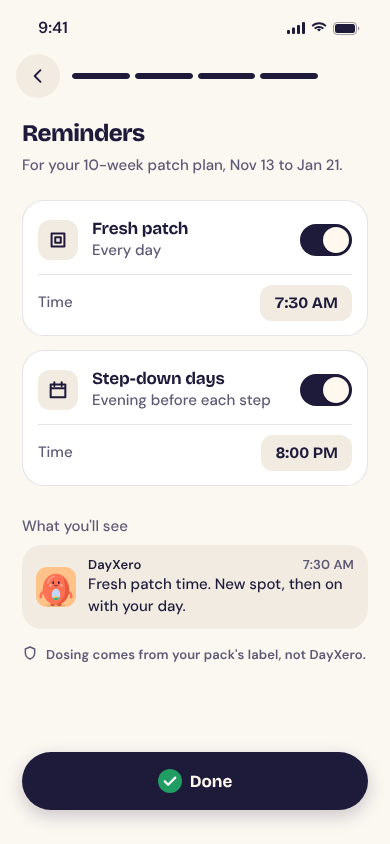
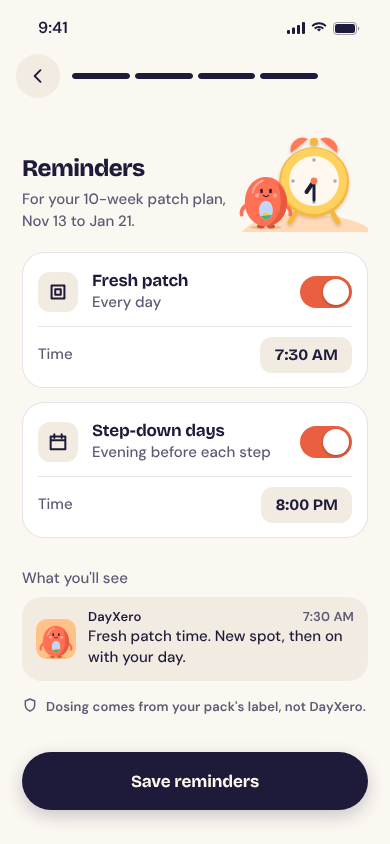
Cook: round 6 in progress
Claude-Session: https://claude.ai/code/session_01DZ7ApmrncqosUtJWfkxY6v

diff --git a/cook/site/screens/034-lesson-cards.html b/cook/site/screens/034-lesson-cards.html
@@ -38,12 +38,10 @@
 <div class="screen" data-ground="reading">
   <div class="nav">
     <button class="icon-btn" aria-label="Close" data-ic="close"></button>
-    <div class="grow"><div class="steps"><i class="now"></i><i></i><i></i><i></i></div></div>
-    <span class="t-foot muted" style="width:44px;text-align:right">1 of 4</span>
+    <div class="grow" style="padding-right:8px"><div class="steps"><i class="now"></i><i></i><i></i><i></i></div></div>
   </div>
   <div class="scroll" style="padding-top:110px">
     <div class="pad">
-      <p class="t-foot label" data-a style="--i:0"><span data-ic="card"></span>The noisy passengers · 90-second read</p>
       <div class="stack-wrap">
         <div class="edge e2" data-fade style="--d:0ms"></div>
         <div class="edge e1" data-fade style="--d:80ms"></div>
@@ -52,9 +50,8 @@
             <div class="road" id="road"></div>
             <h1 class="t-title" data-a style="--i:3">You're the driver</h1>
             <div class="copy">
-              <p class="t-body" data-a style="--i:4">Think of your quit as a long drive. You're at the wheel, and you choose where the car goes.</p>
-              <p class="t-body" data-a style="--i:5">Cravings are the noisy passengers. They shout, they bargain, they promise that one won't hurt.</p>
-              <p class="pull" data-a style="--i:6">You don't have to argue or throw them out. Let them talk, and keep your eyes on the road.</p>
+              <p class="t-body" data-a style="--i:4">Your quit is a long drive, and you're at the wheel. Cravings are the noisy passengers: they shout, they bargain, they promise one won't hurt.</p>
+              <p class="pull" data-a style="--i:5">You don't have to argue or throw them out. Let them talk, and keep your eyes on the road.</p>
             </div>
           </article>
           <article class="face rear">
@@ -71,55 +68,61 @@
 </div>
 <script>
   document.querySelectorAll('[data-ic]').forEach(e => e.insertAdjacentHTML('afterbegin', DX.icon(e.dataset.ic, { size: 20 })));
-  /* Card art: the paper-cut road to the horizon with the lesson's little open-top car coming down it, Xero at the wheel and two
-     chattering passengers behind him. Same palette as the lesson intro; dark mode is the kit's pre-dawn sky. */
+  /* Card art, cropped close: the lesson's open-top car coming down the paper-cut road toward you. Xero is at the wheel, a blue
+     passenger beside him and a yellow and a coral one in the back, two of them chattering. Same palette as the lesson intro;
+     dark mode is the kit's pre-dawn sky. */
   const dark = DX.theme === 'dark';
   const C = dark
-    ? { sky: ['#0D1630', '#24335C', '#5B5578'], sun: '#F7B871', sunO: .85, halo: '#F2A65A', haloO: .3, hills: ['#1E2B4A', '#16233F', '#0F1A31', '#0A1326'], road: '#232E4D', dash: '#8E97B5', dashO: .55,
-        body: '#D8CDBB', shade: '#B3A895', stripe: '#E0876A', frame: '#B3A895', tyre: '#070B16', lamp: '#F7B871', glass: .16, puff: '#8E98B6', puff2: '#6F7997', bub: '#E6DCCB', marks: '#1E1A3A', shadow: .5 }
-    : { sky: ['#FF7E5A', '#FFB877', '#FFE6BF'], sun: '#FFD25E', sunO: 1, halo: '#FFF6C8', haloO: .6, hills: ['#FF9D6E', '#FF7A55', '#E85A3E', '#C2402A'], road: '#4A3352', dash: '#FFE6C8', dashO: .9,
-        body: '#FFF4E4', shade: '#F1D7BC', stripe: '#FF7A55', frame: '#2A2440', tyre: '#2A2440', lamp: '#FFD966', glass: .4, puff: '#B8BDD0', puff2: '#979EB8', bub: '#FFF8EE', marks: '#1E1A3A', shadow: .25 };
-  const sunY = dark ? 84 : 56;
-  const stars = dark ? [[30, 22], [92, 12], [150, 34], [196, 16], [272, 26], [120, 60]].map(([x, y], i) => `<circle cx="${x}" cy="${y}" r="${i % 2 ? 1 : 1.4}" fill="#fff" opacity="${i % 2 ? .5 : .85}"/>`).join('') : '';
-  const puff = (x, y, k, grin) => `<g transform="translate(${x} ${y}) scale(${k})">
-      <path d="M-13 32 V4 A13 13 0 0 1 -9 -5 A7 7 0 0 1 0 -12 A8 8 0 0 1 12 -6 A13 13 0 0 1 13 4 V32 Z" fill="${C.puff}"/>
-      <path d="M12 -6 A13 13 0 0 1 13 4 V32 H7 V4 C8 -1 9 -4 12 -6Z" fill="${C.puff2}"/>
-      <circle cx="-5" cy="1" r="2.2" fill="${C.marks}"/><circle cx="5" cy="1" r="2.2" fill="${C.marks}"/>
-      ${grin ? `<path d="M-5 7.5 h10 c0 4 -2.4 6 -5 6 s-5 -2 -5 -6z" fill="${C.marks}"/>` : `<ellipse cx="0" cy="9.5" rx="3.6" ry="4.4" fill="${C.marks}"/>`}</g>`;
+    ? { sky: ['#0D1630', '#24335C', '#5B5578'], hills: ['#1E2B4A', '#16233F', '#0F1A31', '#0A1326'], road: '#232E4D', dash: '#8E97B5', dashO: .55,
+        body: '#E6DCCB', shade: '#C2B6A2', stripe: '#E9886C', frame: '#C2B6A2', tyre: '#070B16', lamp: '#FFD27A', glass: .12, bub: '#EDE3D2', marks: '#1E1A3A', seat: '#2B3658', shadow: .5 }
+    : { sky: ['#FF7E5A', '#FFB877', '#FFE6BF'], hills: ['#FF9D6E', '#FF7A55', '#E85A3E', '#C2402A'], road: '#4A3352', dash: '#FFE6C8', dashO: .9,
+        body: '#FFF4E4', shade: '#F1D7BC', stripe: '#FF7A55', frame: '#2A2440', tyre: '#2A2440', lamp: '#FFD966', glass: .3, bub: '#FFF8EE', marks: '#1E1A3A', seat: '#2E2A4F', shadow: .25 };
+  const sun = dark
+    ? `<circle cx="58" cy="108" r="70" fill="url(#rhalo)"/><circle cx="58" cy="108" r="20" fill="#FFD27A"/>`
+    : `<circle cx="58" cy="54" r="54" fill="url(#rhalo)"/><circle cx="58" cy="54" r="24" fill="#FFD25E"/>`;
+  const stars = dark ? [[30, 22], [112, 14], [150, 40], [206, 18], [272, 30], [244, 66]].map(([x, y], i) => `<circle cx="${x}" cy="${y}" r="${i % 2 ? 1 : 1.4}" fill="#fff" opacity="${i % 2 ? .5 : .85}"/>`).join('') : '';
+  const pal = { coral: ['#FF9A82', '#F07A62'], yellow: ['#FFD25E', '#F2B640'], blue: ['#7C97F2', '#5C7AE0'] };
+  const pass = (x, y, c, k, tilt, mouth) => `<g transform="translate(${x} ${y}) rotate(${tilt}) scale(${k})">
+      <path d="M-15 40 V7 C-15 -3 -8 -9 0 -9 C8 -9 15 -3 15 7 V40Z" fill="${pal[c][0]}"/>
+      <path d="M8 -7 C12.5 -4 15 1 15 7 V40 H9.5 V7 C9.5 2 9.5 -3 8 -7Z" fill="${pal[c][1]}"/>
+      <path d="M-8 -1.5 l4 -1.4 M3.5 -2.9 l4 1.4" stroke="${C.marks}" stroke-width="1.6" stroke-linecap="round"/>
+      <circle cx="-4.5" cy="3.5" r="2" fill="${C.marks}"/><circle cx="4.5" cy="3.5" r="2" fill="${C.marks}"/>
+      ${mouth === 'grin' ? `<path d="M-4.6 9 h9.2 c0 3.6 -2.2 5.4 -4.6 5.4 s-4.6 -1.8 -4.6 -5.4z" fill="${C.marks}"/>` : mouth === 'o' ? `<ellipse cx="0" cy="11" rx="3" ry="3.8" fill="${C.marks}"/>` : `<path d="M-4 11 q4 -3 8 0" fill="none" stroke="${C.marks}" stroke-width="1.8" stroke-linecap="round"/>`}</g>`;
   const bubble = (x, y, w, tx, tip, marks, d) => `<g class="chat" style="--cd:${d}ms" filter="url(#rlift)" fill="${C.bub}">
-      <rect x="${x}" y="${y}" width="${w}" height="15" rx="7.5"/><path d="M${tx - 4} ${y + 12} L${tx + 4} ${y + 12} L${tip[0]} ${tip[1]}Z"/>
-      <g transform="translate(${x} ${y})" fill="none" stroke="${C.marks}" stroke-width="1.6" stroke-linecap="round" stroke-linejoin="round" opacity=".72">${marks}</g></g>`;
-  const xero = DX.char('xero', { mood: 'hello', size: 46 }).replace('<svg ', '<svg x="-19" y="-70" ');
-  document.getElementById('road').innerHTML = `<svg viewBox="0 0 300 156" aria-hidden="true">
+      <rect x="${x}" y="${y}" width="${w}" height="24" rx="12"/><path d="M${tx - 6} ${y + 20} L${tx + 6} ${y + 20} L${tip[0]} ${tip[1]}Z"/>
+      <g transform="translate(${x} ${y})" fill="none" stroke="${C.marks}" stroke-width="2.2" stroke-linecap="round" stroke-linejoin="round" opacity=".72">${marks}</g></g>`;
+  const xero = DX.char('xero', { mood: 'hello', size: 78 }).replace('<svg ', '<svg x="78" y="76" ');
+  document.getElementById('road').innerHTML = `<svg viewBox="0 0 300 236" aria-hidden="true">
     <defs><linearGradient id="rsky" x1="0" y1="0" x2="0" y2="1"><stop offset="0" stop-color="${C.sky[0]}"/><stop offset=".6" stop-color="${C.sky[1]}"/><stop offset="1" stop-color="${C.sky[2]}"/></linearGradient>
-      <radialGradient id="rhalo"><stop offset=".3" stop-color="${C.halo}" stop-opacity="${C.haloO}"/><stop offset="1" stop-color="${C.halo}" stop-opacity="0"/></radialGradient>
+      <radialGradient id="rhalo"><stop offset=".25" stop-color="${dark ? '#FFB25E' : '#FFF6C8'}" stop-opacity="${dark ? .4 : .6}"/><stop offset="1" stop-color="${dark ? '#FFB25E' : '#FFF6C8'}" stop-opacity="0"/></radialGradient>
       <filter id="rlift" x="-5%" y="-20%" width="110%" height="140%"><feDropShadow dx="0" dy="-2" stdDeviation="2.5" flood-color="#1A0B2E" flood-opacity="${dark ? .45 : .2}"/></filter>
-      <filter id="rdrop" x="-20%" y="-20%" width="140%" height="160%"><feDropShadow dx="0" dy="2" stdDeviation="2" flood-color="#1A0B2E" flood-opacity="${dark ? .5 : .25}"/></filter></defs>
-    <rect width="300" height="156" fill="url(#rsky)"/>
-    ${stars}
-    <circle cx="236" cy="${sunY}" r="50" fill="url(#rhalo)"/>
-    <circle cx="236" cy="${sunY}" r="${dark ? 20 : 22}" fill="${C.sun}" opacity="${C.sunO}" data-pop style="transform-origin:236px ${sunY}px;--d:600ms"/>
-    <path filter="url(#rlift)" d="M0 90 C60 70 120 80 170 86 S260 74 300 78 V156 H0z" fill="${C.hills[0]}"/>
-    <path filter="url(#rlift)" d="M0 114 C80 98 180 120 300 104 V156 H0z" fill="${C.hills[1]}"/>
-    <path filter="url(#rlift)" d="M58 156 C92 138 148 126 150 110 C151 100 166 93 177 90 L183 90 C175 95 166 101 168 111 C172 128 204 142 222 156 Z" fill="${C.road}"/>
-    <path filter="url(#rlift)" d="M0 128 C26 122 46 128 58 140 C64 146 66 152 66 156 H0z" fill="${C.hills[2]}"/>
-    <path filter="url(#rlift)" d="M300 124 C264 120 232 132 218 148 C214 152 212 156 212 156 H300z" fill="${C.hills[2]}"/>
-    <path filter="url(#rlift)" d="M0 146 C14 142 30 146 40 156 H0z" fill="${C.hills[3]}"/>
-    <path filter="url(#rlift)" d="M300 142 C280 140 262 146 254 156 H300z" fill="${C.hills[3]}"/>
-    <g transform="translate(146 152)"><g class="car">
-      <ellipse cx="0" cy="0" rx="36" ry="3.6" fill="#000" opacity="${C.shadow}"/>
-      ${puff(-25, -49, .55, false)}${puff(27, -52, .56, true)}
+      <filter id="rdrop" x="-20%" y="-20%" width="140%" height="160%"><feDropShadow dx="0" dy="3" stdDeviation="3" flood-color="#1A0B2E" flood-opacity="${dark ? .5 : .25}"/></filter></defs>
+    <rect width="300" height="236" fill="url(#rsky)"/>
+    ${stars}${sun}
+    <path filter="url(#rlift)" d="M0 112 C60 92 120 102 170 108 S260 96 300 100 V236 H0z" fill="${C.hills[0]}"/>
+    <path filter="url(#rlift)" d="M0 140 C80 124 180 146 300 130 V236 H0z" fill="${C.hills[1]}"/>
+    <path filter="url(#rlift)" d="M10 236 C70 200 128 170 140 136 C142 128 148 122 154 120 L160 120 C158 126 160 132 164 140 C180 172 236 204 296 236 Z" fill="${C.road}"/>
+    <path d="M157 126 L157 138 M156.5 150 L156 166" stroke="${C.dash}" stroke-opacity="${C.dashO}" stroke-width="2.2" stroke-linecap="round"/>
+    <path filter="url(#rlift)" d="M0 168 C24 160 44 168 54 186 C58 194 58 204 56 236 H0z" fill="${C.hills[2]}"/>
+    <path filter="url(#rlift)" d="M300 160 C270 156 248 170 240 190 C236 202 238 220 240 236 H300z" fill="${C.hills[2]}"/>
+    <g transform="translate(150 230)"><g class="car"><g transform="translate(-150 -230)">
+      <ellipse cx="150" cy="226" rx="104" ry="7" fill="#000" opacity="${C.shadow}"/>
+      <path d="M70 158 V128 C70 120 76 116 84 116 H216 C224 116 230 120 230 128 V158Z" fill="${C.seat}"/>
+      ${pass(150, 98, 'yellow', .92, -3, 'grin')}${pass(214, 104, 'coral', .88, 8, 'o')}
+      ${pass(186, 116, 'blue', 1, 4, 'o')}
       ${xero}
-      <path d="M-25 -30 V-42 C-25 -44 -24 -45 -22 -45 H22 C24 -45 25 -44 25 -42 V-30" fill="#FFFFFF" fill-opacity="${C.glass}" stroke="${C.frame}" stroke-width="1.6" stroke-linejoin="round"/>
-      <rect x="-27" y="-11" width="10" height="11" rx="3" fill="${C.tyre}"/><rect x="17" y="-11" width="10" height="11" rx="3" fill="${C.tyre}"/>
-      <g filter="url(#rdrop)"><path d="M-31 -9 C-31 -5 -29 -4 -25 -4 H25 C29 -4 31 -5 31 -9 V-23 C31 -28 27 -31 21 -31 H-21 C-27 -31 -31 -28 -31 -23 Z" fill="${C.body}"/></g>
-      <path d="M-31 -17 H31" stroke="${C.stripe}" stroke-width="1.8"/>
-      <rect x="-9" y="-25" width="18" height="9" rx="2.5" fill="${C.shade}"/><path d="M-5 -22.5 v4 M0 -22.5 v4 M5 -22.5 v4" stroke="${C.body}" stroke-width="1.2" stroke-linecap="round"/>
-      <circle cx="-21" cy="-22" r="4.6" fill="${C.lamp}" stroke="${C.shade}" stroke-width="1.4"/><circle cx="21" cy="-22" r="4.6" fill="${C.lamp}" stroke="${C.shade}" stroke-width="1.4"/>
-      <rect x="-31" y="-11" width="62" height="4" rx="2" fill="${C.shade}"/>
-    </g></g>
-    ${bubble(98, 68, 26, 114, [118, 88], '<path d="M6 8 l3 -3 l3 3 l3 -3 l3 3 l3 -3"/>', 1100)}
-    ${bubble(172, 64, 24, 178, [174, 84], '<path d="M7.5 4.5 v4"/><path d="M12 4.5 v4"/><path d="M16.5 4.5 v4"/><path d="M7.5 11 h.01"/><path d="M12 11 h.01"/><path d="M16.5 11 h.01"/>', 1700)}
+      <path d="M74 158 L88 112 H212 L226 158" fill="#FFFFFF" fill-opacity="${C.glass}" stroke="${C.frame}" stroke-width="2.6" stroke-linejoin="round"/>
+      <path d="M96 150 C102 140 132 140 138 150" fill="none" stroke="${C.tyre}" stroke-width="5" stroke-linecap="round"/>
+      <path d="M117 145 V158" stroke="${C.tyre}" stroke-width="4" stroke-linecap="round"/>
+      <rect x="64" y="196" width="26" height="30" rx="7" fill="${C.tyre}"/><rect x="210" y="196" width="26" height="30" rx="7" fill="${C.tyre}"/>
+      <g filter="url(#rdrop)"><path d="M56 200 C56 208 60 212 70 212 H230 C240 212 244 208 244 200 V176 C244 164 236 156 224 156 H76 C64 156 56 164 56 176 Z" fill="${C.body}"/></g>
+      <path d="M56 184 H244" stroke="${C.stripe}" stroke-width="3.2"/>
+      <rect x="126" y="170" width="48" height="22" rx="6" fill="${C.shade}"/><path d="M138 175 v12 M150 175 v12 M162 175 v12" stroke="${C.body}" stroke-width="2.4" stroke-linecap="round"/>
+      <circle cx="88" cy="174" r="11" fill="${C.lamp}" stroke="${C.shade}" stroke-width="3"/><circle cx="212" cy="174" r="11" fill="${C.lamp}" stroke="${C.shade}" stroke-width="3"/>
+      <rect x="56" y="198" width="188" height="8" rx="4" fill="${C.shade}"/>
+    </g></g></g>
+    ${bubble(108, 28, 50, 136, [142, 70], '<path d="M10 12 l5 -5 l5 5 l5 -5 l5 5 l5 -5"/>', 1100)}
+    ${bubble(214, 40, 44, 226, [218, 80], '<path d="M13 7 v6"/><path d="M22 7 v6"/><path d="M31 7 v6"/><path d="M13 17.5 h.01"/><path d="M22 17.5 h.01"/><path d="M31 17.5 h.01"/>', 1700)}
   </svg>`;
   const flip = document.getElementById('flip');
   if (!DX.still) flip.classList.add('back');

diff --git a/cook/site/screens/051-nrt-reminders.html b/cook/site/screens/051-nrt-reminders.html
@@ -1,6 +1,6 @@
 <!doctype html><html lang="en"><head><meta charset="utf-8"><meta name="viewport" content="width=390">
 <title>051 NRT reminders</title>
-<meta name="motion" content="Title, the two reminder cards (each with its time row) and the preview arrive (600ms, 90ms stagger); both toggles slide on as they land. At 1.4s Done is pressed: the button keeps its ink colour and gains a green check (done state, no colour switch, no toast: the button is the confirmation), the bell in the preview bumps once. Success haptic on the check.">
+<meta name="motion" content="The little clock scene arrives first: the clock settles onto its paper hill (900ms) and its bells give one soft ring (two 6deg wobbles, 500ms), Xero settles beside it then bobs. Title, the two reminder cards (each with its time row) and the preview arrive (600ms, 90ms stagger); both toggles slide on as they land. Nothing is saved on load: the still shows 'Save reminders'. On tap the button presses (160ms), then turns to its done state, a green check and 'Saved' (no colour switch, no toast: the button is the confirmation), the bell in the preview bumps once and Xero bumps; success haptic on the check.">
 <link rel="stylesheet" href="../kit/kit.css">
 <script src="../kit/chars.js"></script><script src="../kit/kit.js"></script>
 <style>
@@ -21,7 +21,16 @@
   .noti .top .t-cap { color: var(--muted); }
   .caution { margin-top: 16px; font-size: 13px; display: flex; gap: 8px; align-items: center; color: var(--muted); white-space: nowrap; }
   .caution svg { width: 16px; height: 16px; flex: none; }
-  .rem { margin-top: 24px !important; gap: 14px; }
+  .rem { margin-top: 20px !important; gap: 14px; }
+  .head { display: grid; grid-template-columns: 1fr 132px; align-items: end; gap: 8px; }
+  .head .lead { margin-top: 8px; color: var(--muted); }
+  .scene { position: relative; width: 132px; height: 112px; margin-right: -6px; }
+  .scene svg.clock { position: absolute; right: 0; bottom: 0; }
+  .scene .xr { position: absolute; left: -2px; bottom: 2px; width: 64px; height: 64px; }
+  .clock .hill { fill: #FFD9B8; } .clock .body { fill: #FFD25E; } .clock .rim { fill: #F5B83D; } .clock .face { fill: #FFF8EE; } .clock .bell { fill: #FF7A55; } .clock .hand { stroke: #1E1A3A; }
+  [data-theme="dark"] .clock .hill { fill: #26304C; }
+  .play .clock .bells { transform-origin: 78px 30px; animation: ring 500ms ease-in-out 900ms 2; }
+  @keyframes ring { 25% { transform: rotate(6deg); } 75% { transform: rotate(-6deg); } }
 </style>
 </head><body>
 <div class="screen" data-ground="reading">
@@ -32,8 +41,22 @@
   </div>
   <div class="scroll">
     <div class="wrap">
-      <h1 class="t-title" data-a style="--i:0">Reminders</h1>
-      <p class="t-foot lead" data-a style="--i:1">For your 10-week patch plan, Nov 13 to Jan 21.</p>
+      <div class="head">
+        <div>
+          <h1 class="t-title" data-a style="--i:1">Reminders</h1>
+          <p class="t-foot lead" data-a style="--i:2">For your 10-week patch plan, Nov 13 to Jan 21.</p>
+        </div>
+        <div class="scene" aria-hidden="true">
+          <svg class="clock" width="132" height="112" viewBox="0 0 132 112" data-settle style="--i:0"><defs><filter id="cs" x="-20%" y="-20%" width="140%" height="150%"><feDropShadow dx="0" dy="1.6" stdDeviation="1.4" flood-color="#5A2A10" flood-opacity=".25"/></filter></defs>
+            <path class="hill" d="M6 112 C20 96 48 92 72 94 S118 98 132 108 V112Z"/>
+            <g class="bells" filter="url(#cs)"><path class="bell" d="M55 33a12 12 0 0117-14z"/><path class="bell" d="M101 33a12 12 0 00-17-14z"/><rect class="rim" x="74" y="18" width="8" height="8" rx="3"/></g>
+            <g filter="url(#cs)"><path class="rim" d="M60 92l-6 10M96 92l6 10" stroke="#F5B83D" stroke-width="5" stroke-linecap="round"/><circle class="rim" cx="78" cy="62" r="35"/><circle class="body" cx="78" cy="61" r="33"/><circle class="face" cx="78" cy="61" r="25"/></g>
+            <g class="hand" stroke-width="4" stroke-linecap="round"><path d="M78 61l-7.5 11"/><path d="M78 61v19" stroke-width="3"/></g><circle cx="78" cy="61" r="3.4" fill="#FF7A55"/>
+            <g fill="#1E1A3A" opacity=".35"><circle cx="78" cy="40" r="1.8"/><circle cx="99" cy="61" r="1.8"/><circle cx="78" cy="82" r="1.8"/><circle cx="57" cy="61" r="1.8"/></g>
+          </svg>
+          <div class="xr" data-settle style="--i:1;--d:200ms"><div class="bob" id="xero"></div></div>
+        </div>
+      </div>
       <div class="stack rem">
         <div class="card" data-a style="--i:3">
           <div class="row"><span class="ico-tile" data-ic="patch"></span><div class="grow"><p class="t-head">Fresh patch</p><p class="t-foot">Every day</p></div><span class="toggle on"></span></div>
@@ -52,18 +75,20 @@
     </div>
   </div>
   <div class="dock">
-    <button class="btn" id="done" data-a style="--i:7"><span class="lbl">Done</span></button>
+    <button class="btn" id="done" data-a style="--i:7"><span class="lbl">Save reminders</span></button>
   </div>
 </div>
 <script>
   document.querySelectorAll('[data-ic]').forEach(e => e.innerHTML = DX.icon(e.dataset.ic));
   document.getElementById('app').innerHTML = DX.char('xero', { mood: 'hello', size: 40 });
+  document.getElementById('xero').innerHTML = DX.char('xero', { mood: 'hello', size: 64 });
   const btn = document.getElementById('done');
   function finish() {
     btn.classList.add('done-state');
-    btn.querySelector('.lbl').innerHTML = DX.icon('check', { size: 20, w: 3 }) + 'Done';
+    btn.querySelector('.lbl').innerHTML = DX.icon('check', { size: 20, w: 3 }) + 'Saved';
+    document.querySelector('.noti .app').classList.add('bump');
   }
-  DX.after(1400, () => { btn.classList.add('press'); setTimeout(() => { btn.classList.remove('press'); finish(); }, 160); });
-  DX.onStill(finish);
+  /* saved only after the tap: the still shows the pre-tap state */
+  btn.addEventListener('click', () => { if (btn.classList.contains('done-state')) return; btn.classList.add('press'); setTimeout(() => { btn.classList.remove('press'); finish(); }, 160); });
 </script>
 </body></html>

diff --git a/cook/site/screens/029-session-commit.html b/cook/site/screens/029-session-commit.html
@@ -1,6 +1,6 @@
 <!doctype html><html lang="en"><head><meta charset="utf-8"><meta name="viewport" content="width=390">
 <title>029 Session commit</title>
-<meta name="motion" content="The step bar fills to the last third of card 5 and the tag's step dots reach 3 of 3; tag, title, helper, the ringed Day Xero medal (resting faded inside its empty rim) and the date arrive (600ms, 90ms stagger). Holding the button (3s, auto at 1.2s) fills the button and sweeps the medal's rim around in lockstep (linear, a soft haptic tick every 0.5s); letting go drains both (300ms). On held: the rim turns sun gold, the medal face stamps to full colour (620ms spring) with a shine, the date bumps (520ms spring), the title cross-fades to You're committed and the helper to its done line (400ms), and the button shows Committed (success haptic). 1200ms later the done button cross-fades (350ms) into Continue.">
+<meta name="motion" content="The step bar fills to the last third of card 5 and the tag's step line reads Step 3 of 3; tag, title, helper, the ringed Day Xero medal (resting faded inside its empty rim) and the date arrive (600ms, 90ms stagger). Holding the button (3s, auto at 1.2s) fills the button and sweeps the medal's rim around in lockstep (linear, a soft haptic tick every 0.5s); letting go drains both (300ms). On held: the rim turns sun gold, the medal face stamps to full colour (620ms spring) with a shine, the date bumps (520ms spring), the title cross-fades to You're committed and the helper to its done line (400ms), and the button shows Committed (success haptic). 1200ms later the done button cross-fades (350ms) into Continue.">
 <link rel="stylesheet" href="../kit/kit.css">
 <script src="../kit/chars.js"></script><script src="../kit/kit.js"></script>
 <style>
@@ -12,9 +12,6 @@
 .tagrow{display:flex;align-items:center;justify-content:space-between}
 .tag{display:inline-flex;align-items:center;gap:6px;height:30px;padding:0 12px 0 9px;border-radius:99px;background:var(--face);color:#1E1A3A;font:600 13px/1 var(--body)}
 .tag svg{width:16px;height:16px}
-.sub{display:flex;gap:6px;align-items:center}
-.sub i{width:8px;height:8px;border-radius:99px;background:var(--track)}
-.sub i.on{background:var(--fg)}
 /* title and helper swap in place after the hold */
 .swap{display:grid}
 .swap > *{grid-area:1/1;transition:opacity .4s var(--ease),transform .4s var(--ease)}
@@ -22,7 +19,7 @@
 .done .swap .a{opacity:0;transform:translateY(-6px)}
 .done .swap .b{opacity:1;transform:none}
 /* one ringed medal: the hold ring is the medal's rim and the Day Xero coin fills it edge to edge */
-.ringbox{position:absolute;top:266px;left:50%;width:264px;height:264px;margin-left:-132px}
+.ringbox{position:absolute;top:280px;left:50%;width:264px;height:264px;margin-left:-132px}
 .ringbox svg.r{position:absolute;inset:0;display:block;transform:rotate(-90deg)}
 .arc{transition:stroke .4s var(--ease)}
 .done .arc{stroke:#F5B83D}
@@ -32,7 +29,7 @@
 .coin svg > circle[r="47"], .coin svg > circle[stroke="#fff"]{display:none}
 .coin .m{border-radius:50%;opacity:.38;filter:saturate(.25);transition:opacity .4s var(--ease),filter .4s var(--ease)}
 .done .coin .m{opacity:1;filter:none}
-.when{position:absolute;top:566px;left:0;right:0;text-align:center;display:grid;gap:6px;justify-items:center}
+.when{position:absolute;top:578px;left:0;right:0;text-align:center;display:grid;gap:6px;justify-items:center}
 .when .t-large{font-size:36px}
 /* after the hold the button hands over to Continue (same as Quit Day in onboarding) */
 .btns{position:relative;height:58px}
@@ -49,7 +46,7 @@
     <span class="side t-foot muted">5 of 5</span>
   </div>
   <div class="wrap pad">
-    <div class="tagrow" data-a style="--i:0"><span class="tag k-try"><span id="t-ic"></span>Your stress plan · 6 min</span><span class="sub" aria-label="Step 3 of 3"><i class="on"></i><i class="on"></i><i class="on"></i></span></div>
+    <div class="tagrow" data-a style="--i:0"><span class="tag k-try"><span id="t-ic"></span>Your stress plan · 6 min</span><span class="t-foot muted sub">Step 3 of 3</span></div>
     <h1 class="t-title swap" data-a style="--i:1"><span class="a">Commit to your Quit Day</span><span class="b">You're committed</span></h1>
     <p class="t-foot muted swap" data-a style="--i:2"><span class="a">Hold for three seconds to make it official.</span><span class="b">Done. This one is a promise to yourself.</span></p>
   </div>

diff --git a/cook/site/screens/026-session-reflect.html b/cook/site/screens/026-session-reflect.html
@@ -1,6 +1,6 @@
 <!doctype html><html lang="en"><head><meta charset="utf-8"><meta name="viewport" content="width=390">
 <title>026 Session reflect</title>
-<meta name="motion" content="The step bar shows card 5 a third done and the mint tag arrives with its step dots (1 of 3), then the title and line (600ms, 90ms stagger). Your two picks settle in as rows one after another (900ms settle, 120ms apart) while the picked count runs 0 to 2; as the second slot fills, the other options arrive dimmed (600ms, to 55% opacity) because both slots are taken. Xero settles in with his line last. Tapping a row's x frees a slot: the row slides back into the options (360ms) and the options brighten (250ms) with a selection haptic; tapping an option then fills the free slot.">
+<meta name="motion" content="The step bar shows card 5 a third done and the mint tag arrives with its step line (Step 1 of 3), then the title and line (600ms, 90ms stagger). Your two picks settle in as rows one after another (900ms settle, 120ms apart) while the picked count runs 0 to 2; as the second slot fills, the other options arrive dimmed (600ms, to 55% opacity) because both slots are taken. Xero settles in with his line last. Tapping a row's x frees a slot: the row slides back into the options (360ms) and the options brighten (250ms) with a selection haptic; tapping an option then fills the free slot.">
 <link rel="stylesheet" href="../kit/kit.css">
 <script src="../kit/chars.js"></script><script src="../kit/kit.js"></script>
 <style>
@@ -14,9 +14,6 @@
 .tag{display:inline-flex;align-items:center;gap:6px;height:30px;padding:0 12px 0 9px;border-radius:99px;background:var(--face);color:#1E1A3A;font:600 13px/1 var(--body)}
 .tag svg{width:16px;height:16px}
 /* sub-steps inside this card */
-.sub{display:flex;gap:6px;align-items:center}
-.sub i{width:8px;height:8px;border-radius:99px;background:var(--track)}
-.sub i.on{background:var(--fg)}
 .lh{display:flex;justify-content:space-between;align-items:baseline;margin-top:12px}
 .lh b{font:600 15px/1.4 var(--body)}
 .list .row{gap:12px;min-height:58px;padding-right:12px}
@@ -46,7 +43,7 @@
     <span class="side t-foot muted">5 of 5</span>
   </div>
   <div class="wrap pad">
-    <div class="tagrow" data-a style="--i:0"><span class="tag k-try"><span id="t-ic"></span>Your stress plan · 6 min</span><span class="sub" aria-label="Step 1 of 3"><i class="on"></i><i></i><i></i></span></div>
+    <div class="tagrow" data-a style="--i:0"><span class="tag k-try"><span id="t-ic"></span>Your stress plan · 6 min</span><span class="t-foot muted sub">Step 1 of 3</span></div>
     <h1 class="t-title" data-a style="--i:1">What gets to you most?</h1>
     <p class="t-foot muted" data-a style="--i:2">Pick the two that come up most.</p>
     <div class="lh" data-a style="--i:3"><b>Your two</b><span class="t-foot muted"><span data-count="2" data-from="0">2</span> of 2 picked</span></div>

diff --git a/cook/site/screens/028-session-slider.html b/cook/site/screens/028-session-slider.html
@@ -1,6 +1,6 @@
 <!doctype html><html lang="en"><head><meta charset="utf-8"><meta name="viewport" content="width=390">
 <title>028 Session slider</title>
-<meta name="motion" content="The step bar shows card 2 a third done; the mint tag with its step dots (1 of 3), question and helper arrive (600ms, 90ms stagger). The calm-blue to coral track and its 11 stops fade in, then the thumb glides from Calm to the middle (1100ms settle, from 400ms) while the big number counts 0 to 5 in step, with a soft tick haptic on each stop. Xero's face follows the thumb as it passes (calm at 0 to 3, plain at 4, a little tense at 5 and 6, tense from 7: a 150ms cross-fade per change) and his line arrives beside him last (600ms).">
+<meta name="motion" content="The step bar shows card 2 a third done; the mint tag with its step line (Step 1 of 3), question and helper arrive (600ms, 90ms stagger). The calm-blue to coral track and its 11 stops fade in, then the thumb glides from Calm to the middle (1100ms settle, from 400ms) while the big number counts 0 to 5 in step, with a soft tick haptic on each stop. Xero's face follows the thumb as it passes (calm at 0 to 3, plain at 4, a little tense at 5 and 6, tense from 7: a 150ms cross-fade per change) and his line arrives beside him last (600ms).">
 <link rel="stylesheet" href="../kit/kit.css">
 <script src="../kit/chars.js"></script><script src="../kit/kit.js"></script>
 <style>
@@ -13,9 +13,6 @@
 .tagrow{display:flex;align-items:center;justify-content:space-between}
 .tag{display:inline-flex;align-items:center;gap:6px;height:30px;padding:0 12px 0 9px;border-radius:99px;background:var(--face);color:#1E1A3A;font:600 13px/1 var(--body)}
 .tag svg{width:16px;height:16px}
-.sub{display:flex;gap:6px;align-items:center}
-.sub i{width:8px;height:8px;border-radius:99px;background:var(--track)}
-.sub i.on{background:var(--fg)}
 /* the number and Xero's reaction, centred as one group */
 .group{position:absolute;top:300px;left:var(--gutter);right:var(--gutter);display:grid;justify-items:center;gap:16px}
 .big{text-align:center}
@@ -53,7 +50,7 @@
     <span class="side t-foot muted">2 of 5</span>
   </div>
   <div class="wrap pad">
-    <div class="tagrow" data-a style="--i:0"><span class="tag k-try"><span id="t-ic"></span>A breath that works · 5 min</span><span class="sub" aria-label="Step 1 of 3"><i class="on"></i><i></i><i></i></span></div>
+    <div class="tagrow" data-a style="--i:0"><span class="tag k-try"><span id="t-ic"></span>A breath that works · 5 min</span><span class="t-foot muted sub">Step 1 of 3</span></div>
     <h1 class="t-title" data-a style="--i:1">How tense do you feel right now?</h1>
     <p class="t-foot muted" data-a style="--i:2">A quick check before you breathe. You'll check again after.</p>
   </div>

diff --git a/cook/site/screens/027-session-choice.html b/cook/site/screens/027-session-choice.html
@@ -1,6 +1,6 @@
 <!doctype html><html lang="en"><head><meta charset="utf-8"><meta name="viewport" content="width=390">
 <title>027 Session choice</title>
-<meta name="motion" content="The step bar moves to two thirds of card 5 and the tag's step dots fill to 2 of 3 (500ms settle); question and helper arrive (600ms, 90ms stagger) and the four option rows settle in (900ms, 120ms apart), all with the same neutral tile. At 1.5s the first row lands as the choice: it presses down 2pt, the selection tint and outline fill in (300ms), the radio fills and the tick draws, and the row bumps (520ms spring) with a selection haptic. Then Xero settles in cheering (900ms) and his line arrives beside him (600ms).">
+<meta name="motion" content="The step bar moves to two thirds of card 5 and the tag's step line turns to Step 2 of 3 (500ms settle); question and helper arrive (600ms, 90ms stagger) and the four option rows settle in (900ms, 120ms apart), all with the same neutral tile. At 1.5s the first row lands as the choice: it presses down 2pt, the selection tint and outline fill in (300ms), the radio fills and the tick draws, and the row bumps (520ms spring) with a selection haptic. Then Xero settles in cheering (900ms) and his line arrives beside him (600ms).">
 <link rel="stylesheet" href="../kit/kit.css">
 <script src="../kit/chars.js"></script><script src="../kit/kit.js"></script>
 <style>
@@ -12,9 +12,6 @@
 .tagrow{display:flex;align-items:center;justify-content:space-between}
 .tag{display:inline-flex;align-items:center;gap:6px;height:30px;padding:0 12px 0 9px;border-radius:99px;background:var(--face);color:#1E1A3A;font:600 13px/1 var(--body)}
 .tag svg{width:16px;height:16px}
-.sub{display:flex;gap:6px;align-items:center}
-.sub i{width:8px;height:8px;border-radius:99px;background:var(--track)}
-.sub i.on{background:var(--fg)}
 .opts{display:grid;gap:10px;margin-top:12px}
 .opt .t-body{font-weight:600}
 .opts .opt{min-height:74px;padding:12px 16px 12px 12px;gap:14px}
@@ -41,7 +38,7 @@
     <span class="side t-foot muted">5 of 5</span>
   </div>
   <div class="wrap pad">
-    <div class="tagrow" data-a style="--i:0"><span class="tag k-try"><span id="t-ic"></span>Your stress plan · 6 min</span><span class="sub" aria-label="Step 2 of 3"><i class="on"></i><i class="on"></i><i></i></span></div>
+    <div class="tagrow" data-a style="--i:0"><span class="tag k-try"><span id="t-ic"></span>Your stress plan · 6 min</span><span class="t-foot muted sub">Step 2 of 3</span></div>
     <h1 class="t-title" data-a style="--i:1">When work piles up, what will you do first?</h1>
     <p class="t-foot muted" data-a style="--i:2">Pick one to do before anything else.</p>
     <div class="opts">
